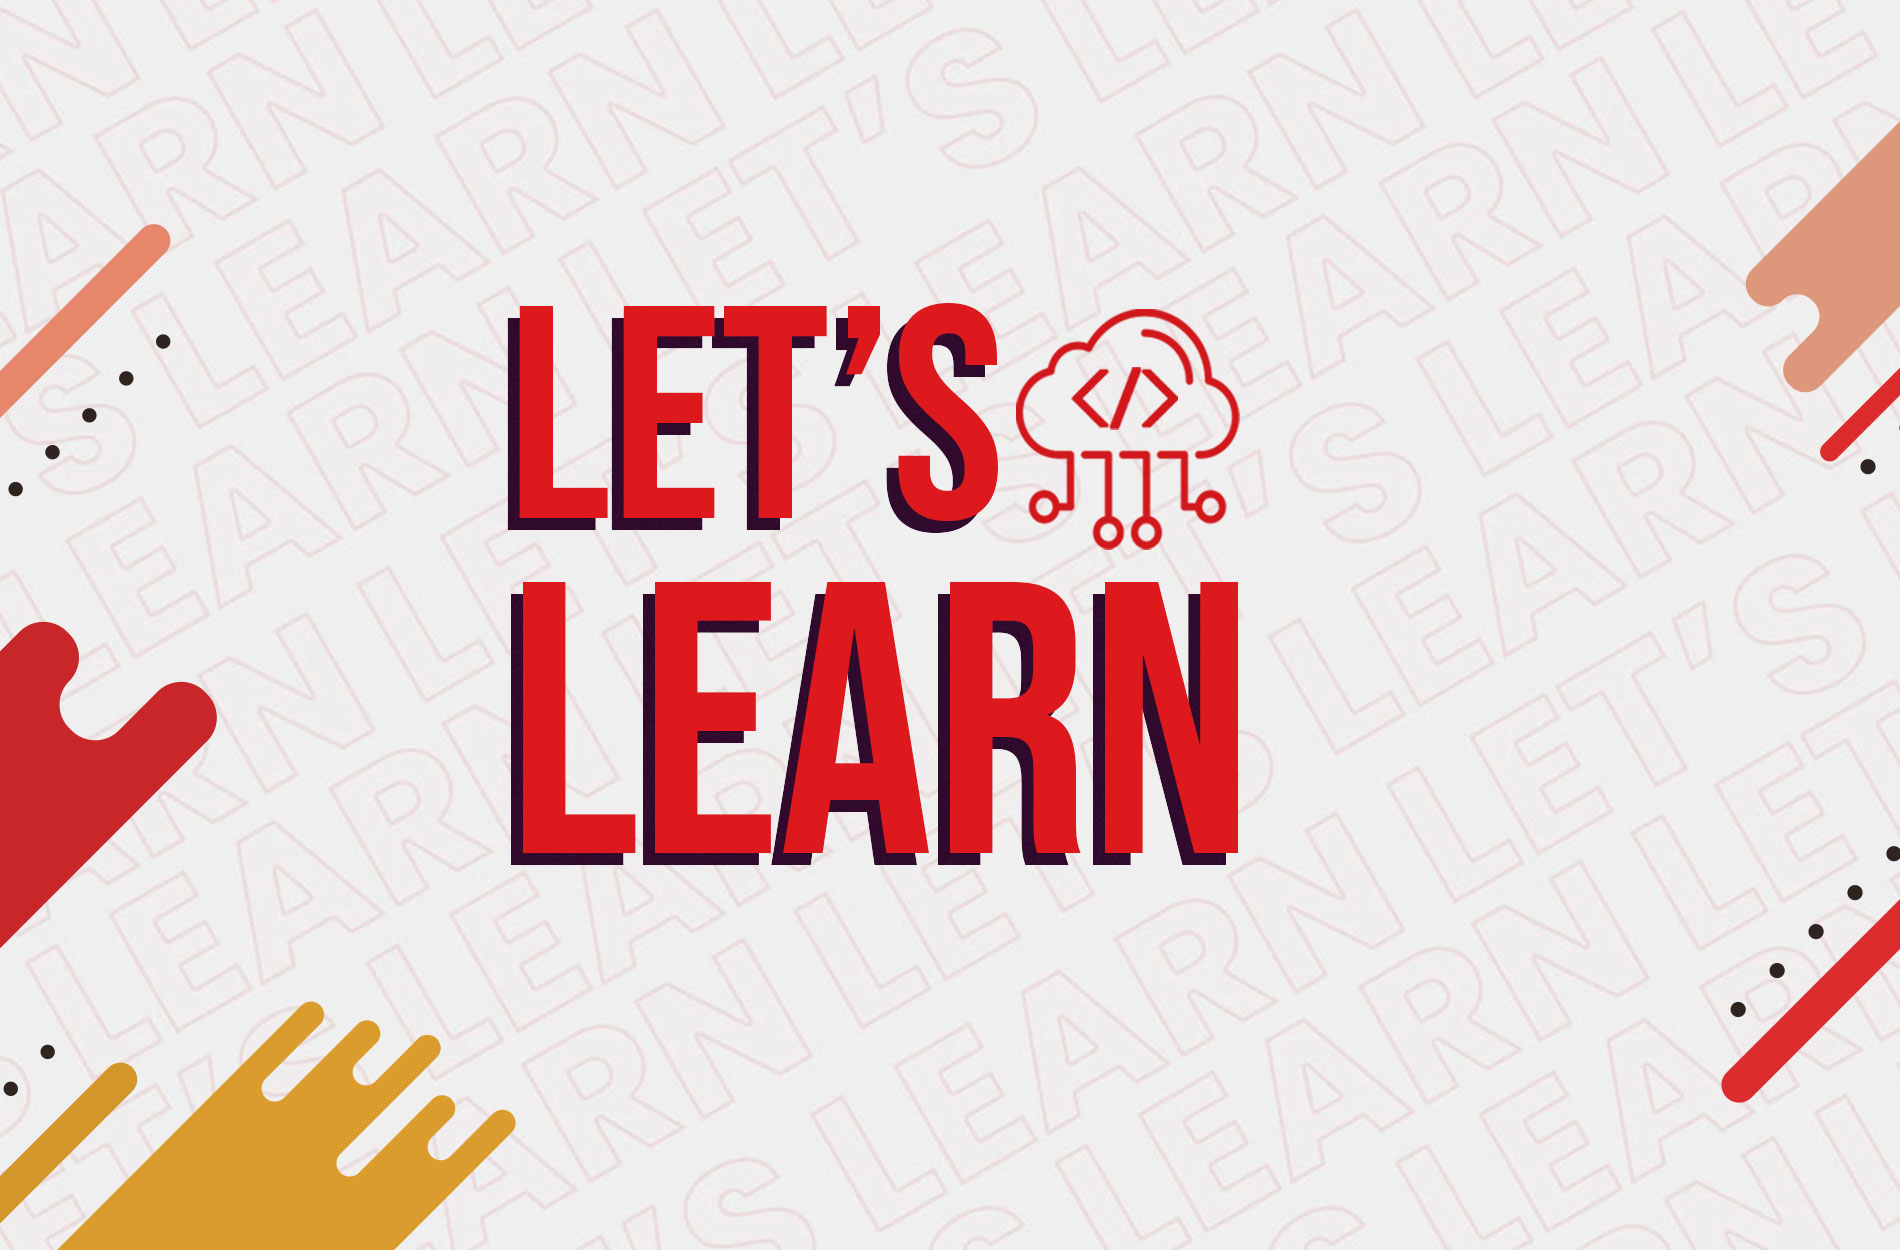
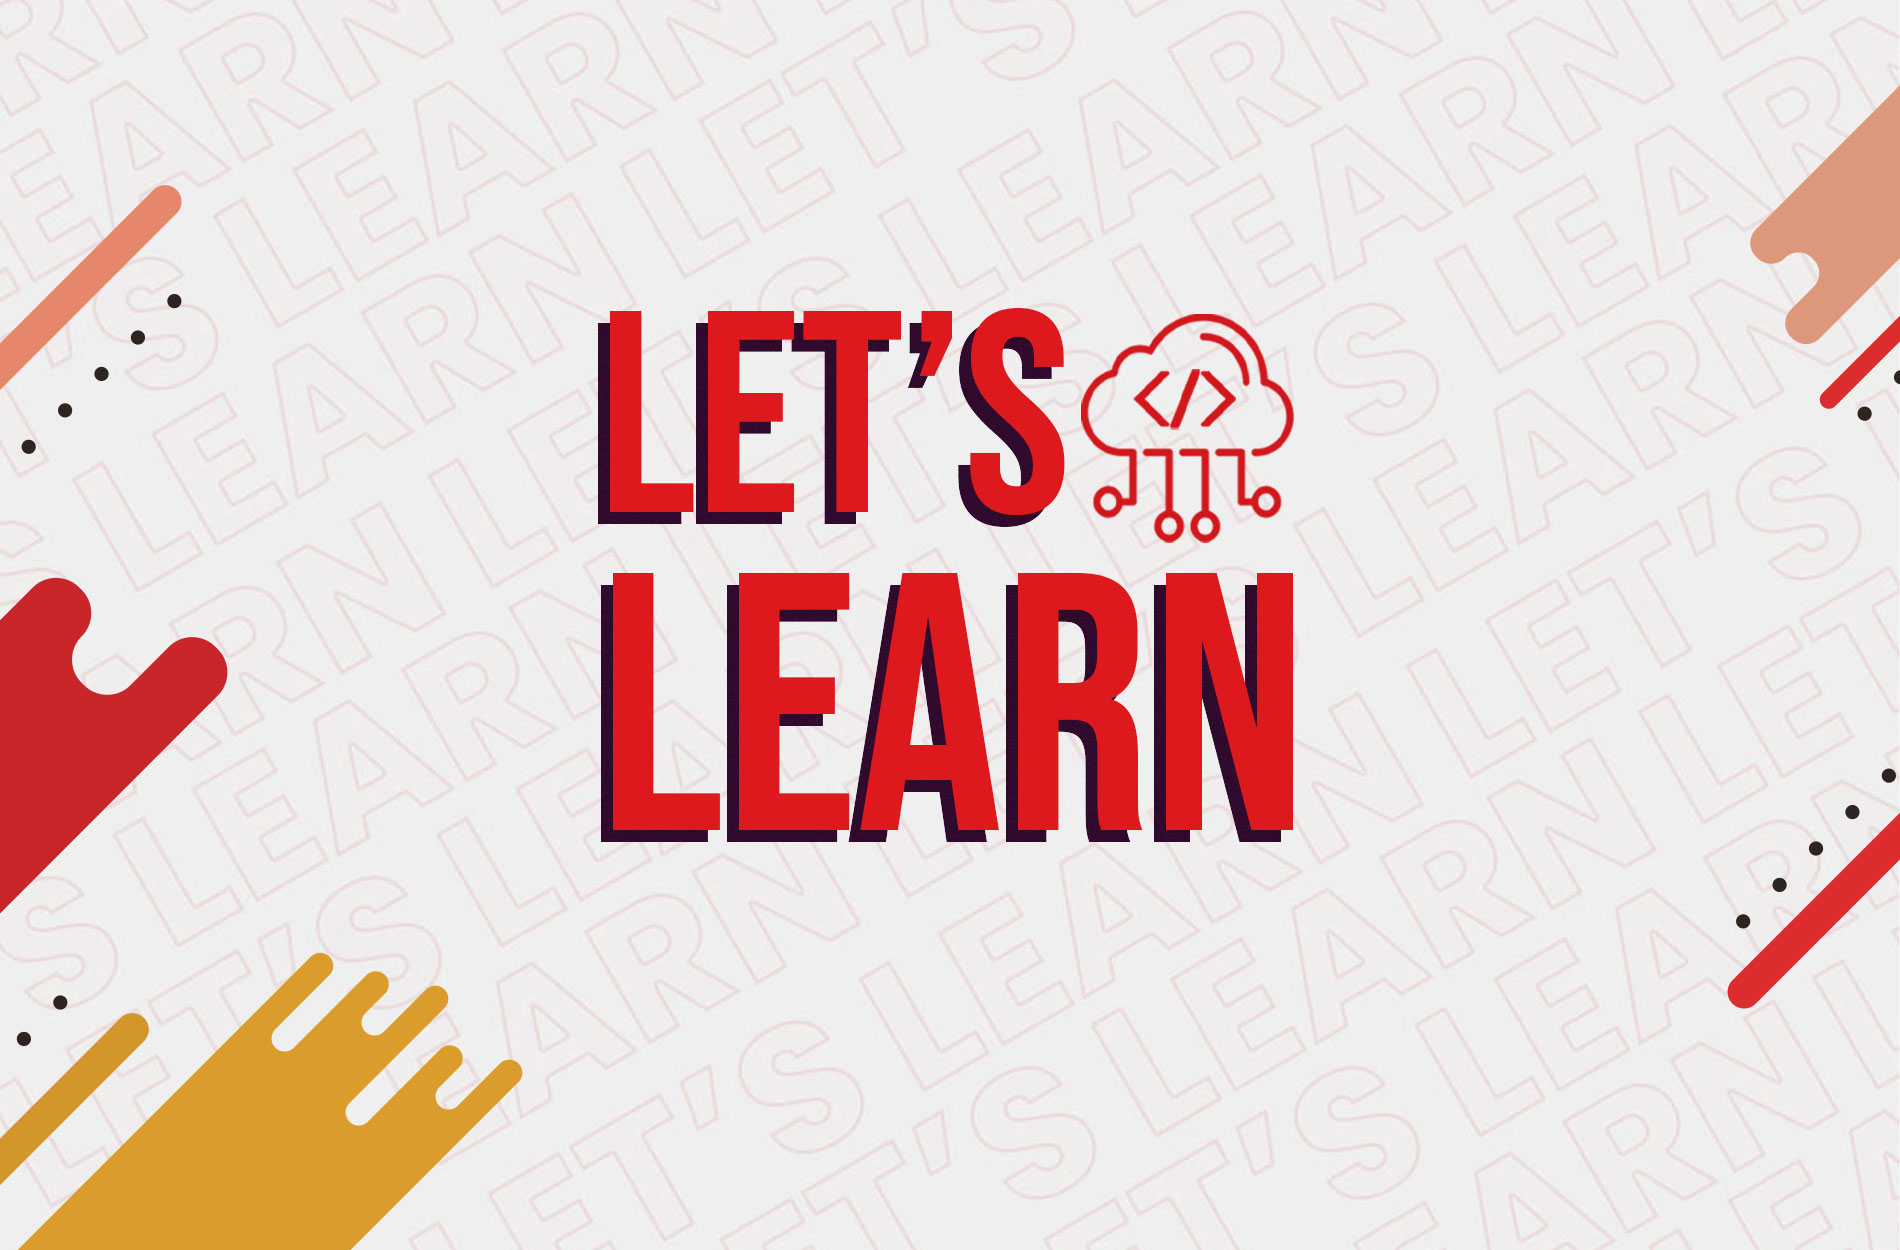
fixes

diff --git a/192.168.43.98_8000/styles.css b/192.168.43.98_8000/styles.css
@@ -58,7 +58,7 @@ header {
     object-fit: cover;
     width: 100%;
     height: 100%;
-    transform: translate(0, -50px);
+    transform: translate(0, -60px);
 }
 
 /* @media (max-width: 534px) {
